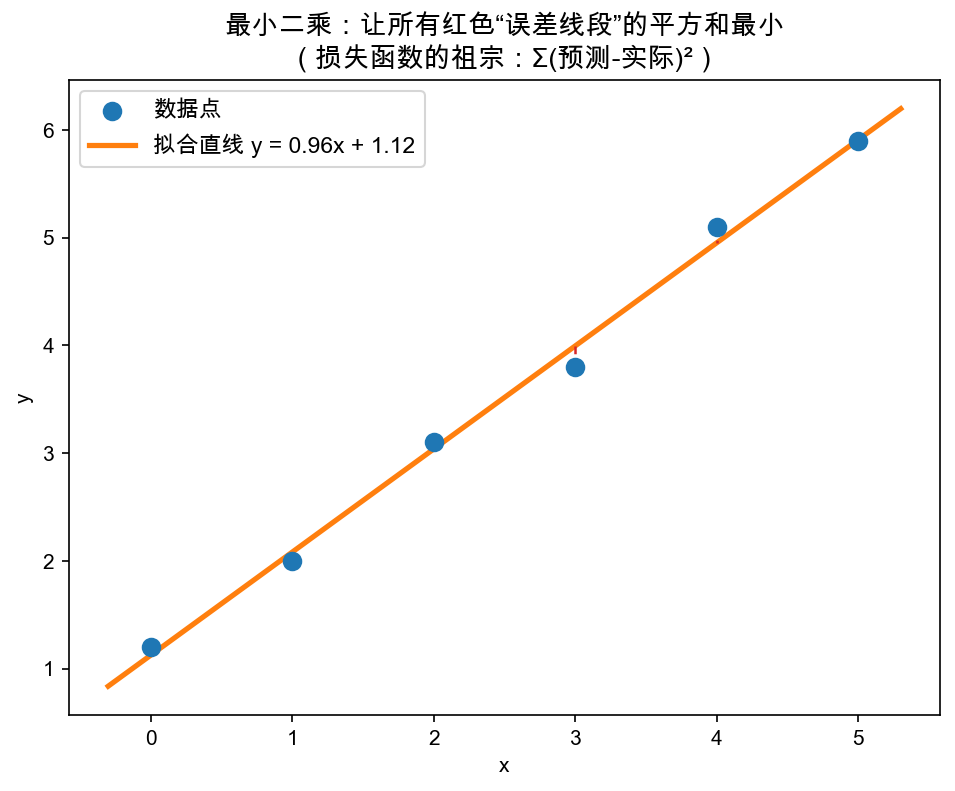
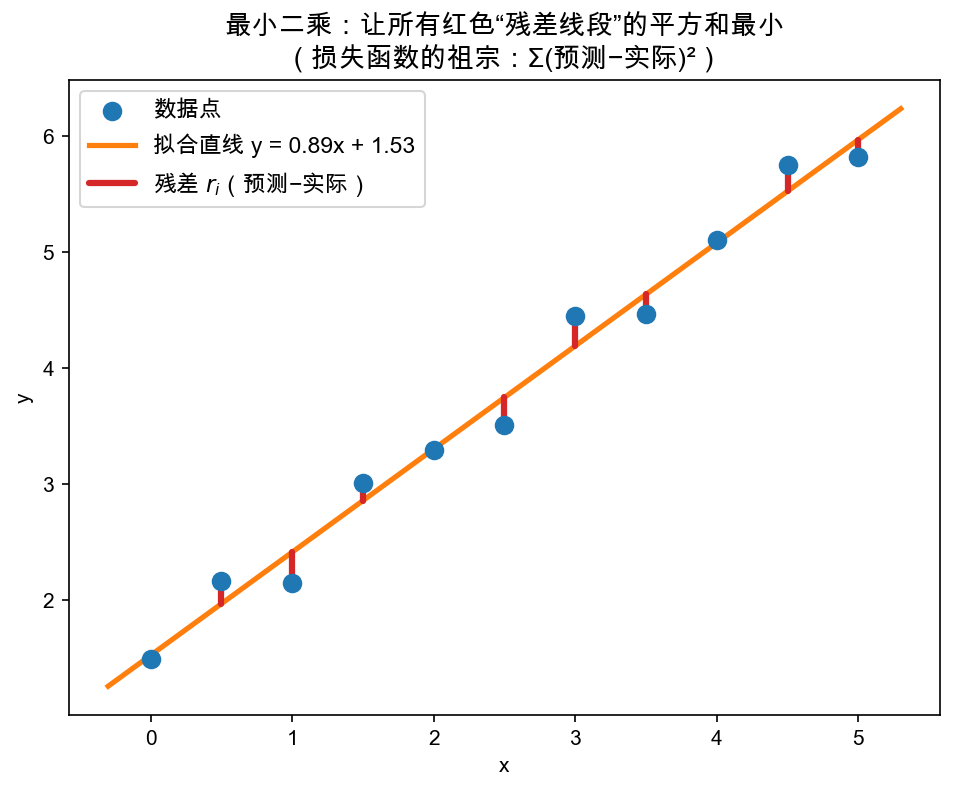
更新图示和代码：调整拟合直线的残差表示，修改数据点以更准确地反映目标线，更新学习指南中的相关描述，确保术语一致性和内容清晰性。

diff --git a/figures/gen_w7d3_fit_line.py b/figures/gen_w7d3_fit_line.py
@@ -7,8 +7,9 @@ import matplotlib.pyplot as plt
 from reference.lstsq import fit_line
 from figures._common import C_BLUE, C_ORANGE, C_RED, save
 
-xs = [0, 1, 2, 3, 4, 5]
-ys = [1.2, 2.0, 3.1, 3.8, 5.1, 5.9]
+# 目标线 y = 0.9x + 1.5：x=0、2、4 三点恰好在线上，其余点小幅偏离、上下交替
+xs = [0, 0.5, 1, 1.5, 2, 2.5, 3, 3.5, 4, 4.5, 5]
+ys = [1.5, 2.17, 2.15, 3.01, 3.3, 3.51, 4.45, 4.47, 5.1, 5.75, 5.82]
 a, b = fit_line(xs, ys)
 
 fig, ax = plt.subplots(figsize=(7.5, 5.5))
@@ -18,12 +19,16 @@ x = [min(xs) - 0.3, max(xs) + 0.3]
 ax.plot(x, [a * xi + b for xi in x], color=C_ORANGE, lw=2.5,
         label=f"拟合直线 y = {a:.2f}x + {b:.2f}")
 
+first = True
 for xi, yi in zip(xs, ys):
     y_hat = a * xi + b
-    ax.plot([xi, xi], [yi, y_hat], color=C_RED, lw=1.2, ls="--")
+    ax.plot([xi, xi], [yi, y_hat], color=C_RED, lw=3.0,
+            zorder=4, solid_capstyle="round",
+            label="残差 $r_i$（预测−实际）" if first else None)
+    first = False
 
 ax.set_xlabel("x")
 ax.set_ylabel("y")
-ax.set_title("最小二乘：让所有红色“误差线段”的平方和最小\n（损失函数的祖宗：Σ(预测-实际)²）", fontsize=13)
-ax.legend(fontsize=11)
+ax.set_title("最小二乘：让所有红色“残差线段”的平方和最小\n（损失函数的祖宗：Σ(预测−实际)²）", fontsize=13)
+ax.legend(fontsize=11, loc="upper left")
 save(fig, "w7d3_fit_line.png")

diff --git a/learning-guide/week7/03-Day3-超定方程组与最小二乘.md b/learning-guide/week7/03-Day3-超定方程组与最小二乘.md
@@ -46,10 +46,12 @@ $$
 \text{误差}_i = \text{预测} - \text{实际} = (a \cdot x_i + b) - y_i
 $$
 
-有的点误差是正的（直线在点上方），有的是负的（在下方）。**如果直接加起来，正的负的会互相抵消**，明明一堆误差，加起来却是 0——骗自己。所以经典做法是把每个误差**平方**，再加起来：
+这个误差在统计里有正式名字：**残差（residual）**，记作 $r_i$。字面意思就是"**残余下来的误差**"——直线把数据里能用 $y = a \cdot x + b$ 解释的部分"吃掉"之后，每个点上仍然**残存、亏欠的那一小截**。残差不是什么新东西，就是刚才公式里那个竖直误差 $(a \cdot x_i + b) - y_i$，只是给它起了个学名；后面说到"残差"，指的都是它（到 3.2 节末尾的图里，它就是那些红色竖线段）。
+
+有的点残差是正的（直线在点上方），有的是负的（在下方）。**如果直接加起来，正的负的会互相抵消**，明明一堆误差，加起来却是 0——骗自己。所以经典做法是把每个残差**平方**，再加起来：
 
 $$
-\text{残差平方和 } RSS = \sum (a \cdot x_i + b - y_i)^2
+\text{残差平方和 } RSS = \sum r_i^2 = \sum (a \cdot x_i + b - y_i)^2
 $$
 
 平方有两个好处：① 正负都变正，不会抵消；② 大幅度惩罚"离得特别远"的点（误差大 1 倍，平方后大 4 倍）。
@@ -58,9 +60,9 @@ $$
 
 看图：
 
-![拟合直线：让所有红色误差线段的平方和最小](../../figures/out/w7d3_fit_line.png)
+![拟合直线：让所有红色残差线段的平方和最小](../../figures/out/w7d3_fit_line.png)
 
-蓝点是数据，橙色是拟合出的直线，红色虚线是每个点的**竖直误差**。最小二乘找的那条直线，就是让这些红线的**长度平方加起来最小**的那一条。注意它不一定穿过任何一个小点，但它是"整体离所有点最近"的。
+蓝点是数据，橙色是拟合出的直线，红色竖线段是每个点的**竖直误差——也就是残差 $r_i$**（有的在直线上方，有的在下方；恰好落在直线上的点残差为 0，看不出红线段）。最小二乘找的那条直线，就是让这些红线段的**长度平方加起来最小**的那一条。注意它可能碰巧穿过个别点，但穿不过所有点——它是"整体离所有点最近"的，不是"逐点完美"的。
 
 > 💡 **你可能会问：为什么要"平方"而不是"绝对值"？**
 >
@@ -176,7 +178,7 @@ def residual_sum(xs: list, ys: list, a: float, b: float) -> float:
     return sum((a * x + b - y) ** 2 for x, y in zip(xs, ys))
 ```
 
-对每个点算 $(a \cdot x + b - y)$，平方，加起来。这就是 3.2 节定义的 RSS。
+对每个点算残差 $r_i = (a \cdot x + b - y)$，平方，加起来。这就是 3.2 节定义的 RSS。
 
 > ⚠ **易踩坑：`(a * x + b - y) ** 2` 的括号。** 一定要先 `(a*x + b − y)` 再 `** 2`。如果写成 `a*x + b - y**2`，就变成"预测减去 $y^2$"，完全不是误差平方，测试 `test_residual_zero_on_exact_fit` 会红——它要求严格共线时残差恰为 0。
 
